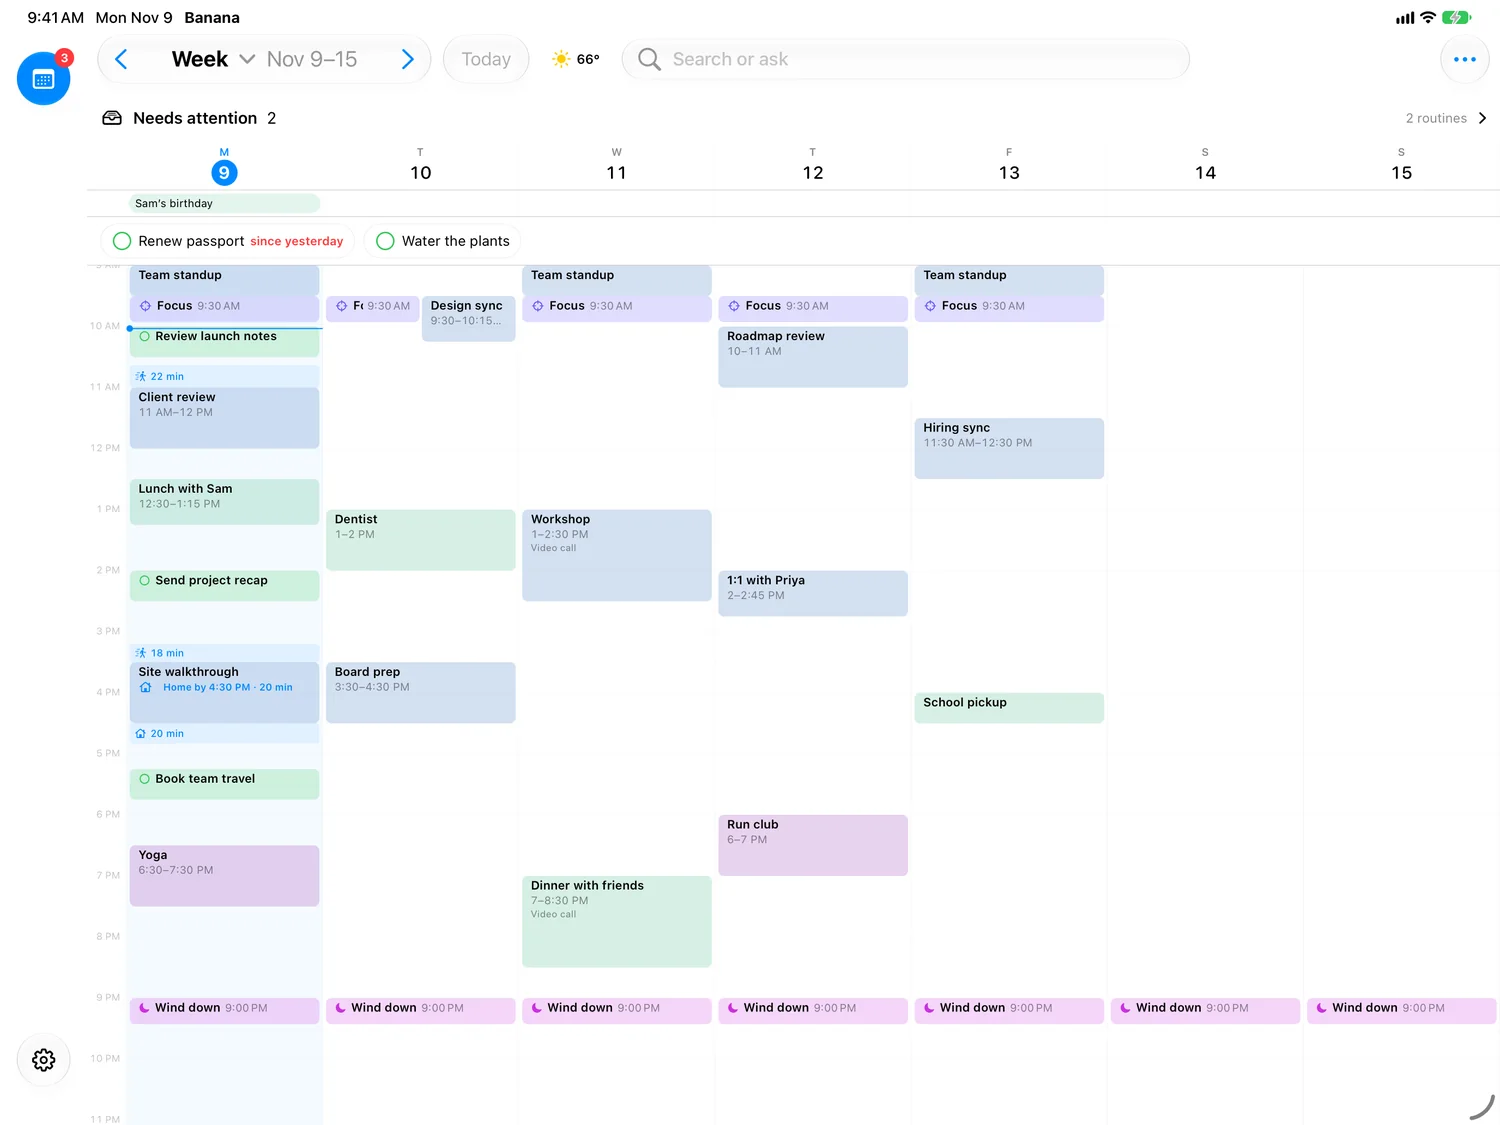
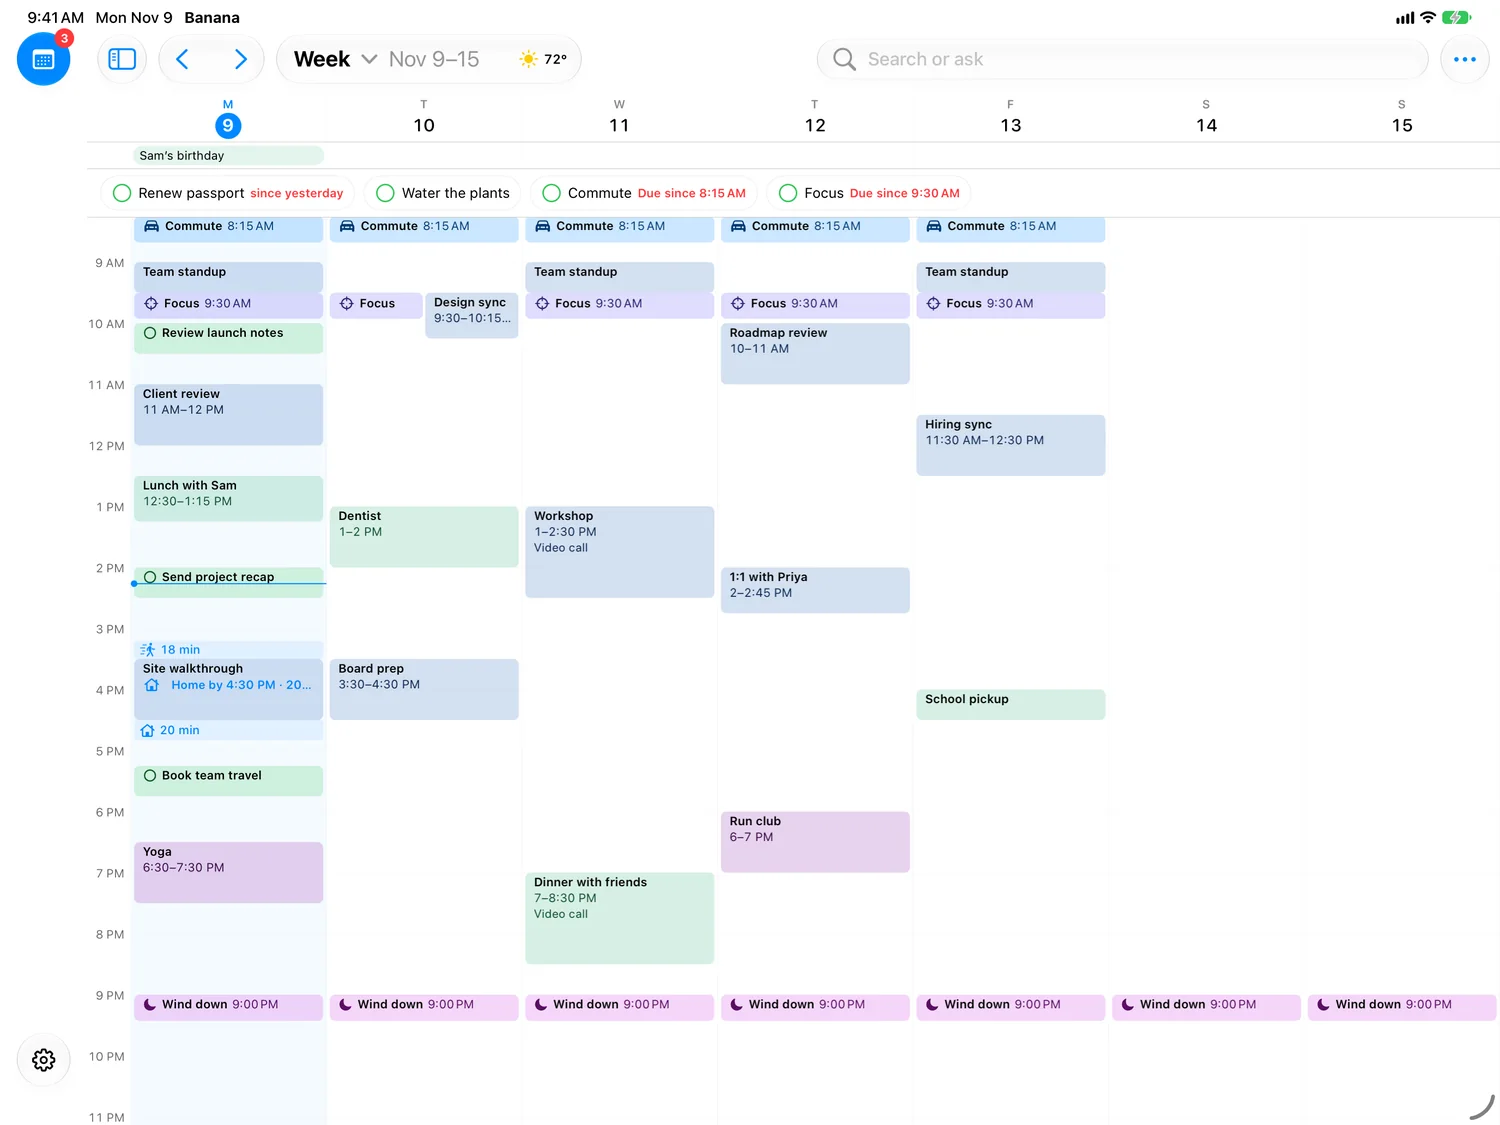
Site: calendar-only device pictures from the HIG-pass captures, the Mac tab back
phone-plan, ipad-plan and the new mac-plan come from assets/screenshots/calendar-only (build_site.py
captures); the iPad/Mac switch under the large picture is restored now that a calendar-only Mac
capture exists. check_site.py passes; rendered headless at 1440 and 390 wide: no overflow, no
script errors, no broken images, and the Mac tab shows the Mac picture.

diff --git a/LandingPage/site/index.html b/LandingPage/site/index.html
@@ -221,7 +221,7 @@
 
 <section class="screens-in-context" id="screenshots" aria-label="Banana app screenshots">
   <figure class="phone-capture"><a href="/assets/img/phone-plan.webp" aria-label="Enlarge iPhone screenshot"><img src="/assets/img/phone-plan.webp" width="780" height="1696" loading="lazy" alt="Banana on iPhone showing today’s reminders, travel time and meetings."></a><figcaption>iPhone</figcaption></figure>
-  <figure class="wide-capture"><a id="wide-shot-link" href="/assets/img/ipad-plan.webp" aria-label="Enlarge iPad screenshot"><img id="wide-shot" src="/assets/img/ipad-plan.webp" width="1500" height="1125" loading="lazy" alt="Banana on iPad showing a week of appointments, reminders and routines."></a><figcaption>iPad</figcaption></figure>
+  <figure class="wide-capture"><a id="wide-shot-link" href="/assets/img/ipad-plan.webp" aria-label="Enlarge iPad screenshot"><img id="wide-shot" src="/assets/img/ipad-plan.webp" width="1500" height="1125" loading="lazy" alt="Banana on iPad showing a week of appointments, reminders and routines."></a><figcaption><div class="screen-switch" role="group" aria-label="Choose large screen"><button type="button" data-screen="ipad" aria-pressed="true">iPad</button><span aria-hidden="true">/</span><button type="button" data-screen="mac" aria-pressed="false">Mac</button></div></figcaption></figure>
 </section>
 
   <section class="block" id="soon">

diff --git a/LandingPage/build_site.py b/LandingPage/build_site.py
@@ -26,11 +26,11 @@ OUT = HERE / "site/assets/img"
 
 # name on the site, source capture, width in pixels (twice the widest it is shown). The site shows
 # the calendar-only App Store build; swapping a picture is changing its source here and running
-# `python3 LandingPage/build_site.py captures`. The Mac picture waits for a calendar-only capture
-# (the old mac/raw/01-plan.png shows module tabs), so the home page shows no Mac tab until then.
+# `python3 LandingPage/build_site.py captures`.
 CAPTURES = [
     ("phone-plan", "calendar-only/iphone/raw/01-plan.png", 780),
     ("ipad-plan", "calendar-only/ipad/raw/01-plan.png", 1500),
+    ("mac-plan", "calendar-only/mac/raw/01-plan.png", 1320),
 ]
 
 

diff --git a/LandingPage/README.md b/LandingPage/README.md
@@ -42,12 +42,10 @@ data and Support and About follow, and the Mac download and the beta stay. `stor
 the copy for both states. Before switching, replace the iPhone, iPad and Mac screenshots with
 captures of the calendar-only App Store build.
 
-The home page's iPhone and iPad pictures come from `assets/screenshots/calendar-only/*/raw/`
+The home page's iPhone, iPad and Mac pictures come from `assets/screenshots/calendar-only/*/raw/`
 (listed in `build_site.py`'s `CAPTURES`); to swap one, replace or repoint its capture and run
-`python3 LandingPage/build_site.py captures`. There is no calendar-only Mac capture yet, so the
-iPad/Mac switch under the large picture is reduced to "iPad". When one exists, add `mac-plan` to
-`CAPTURES` and put the switch back (the buttons with `data-screen="ipad"` and `"mac"`; the script
-that swaps the picture is still on the page).
+`python3 LandingPage/build_site.py captures`. The iPad/Mac switch under the large picture swaps
+`ipad-plan.webp` and `mac-plan.webp`.
 
 ## Lines that will go out of date
 
